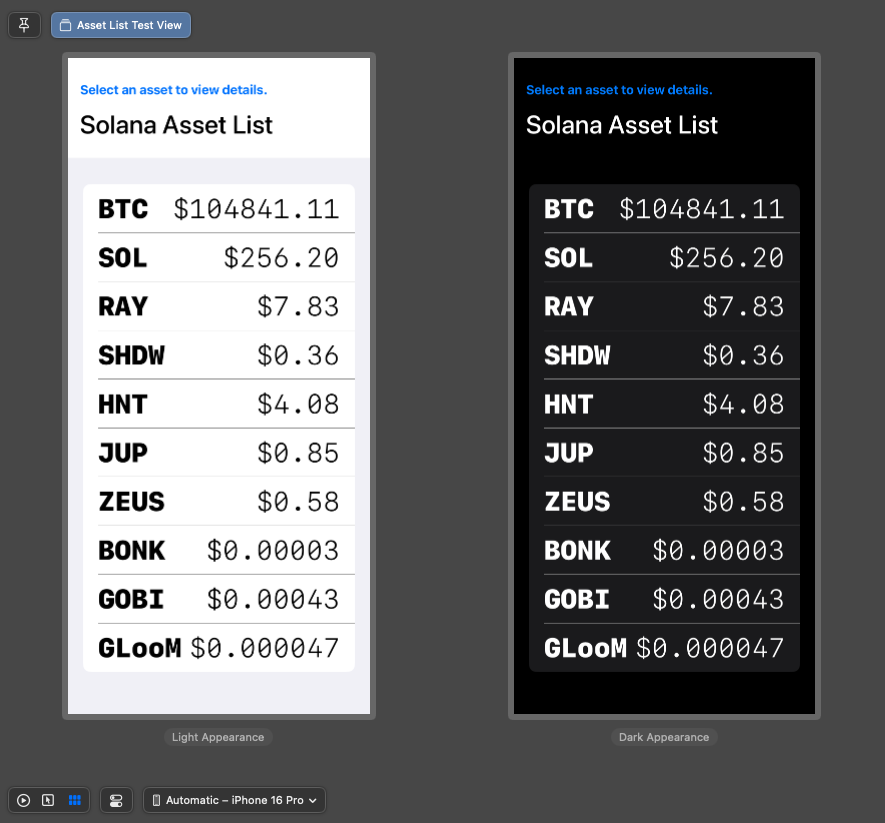
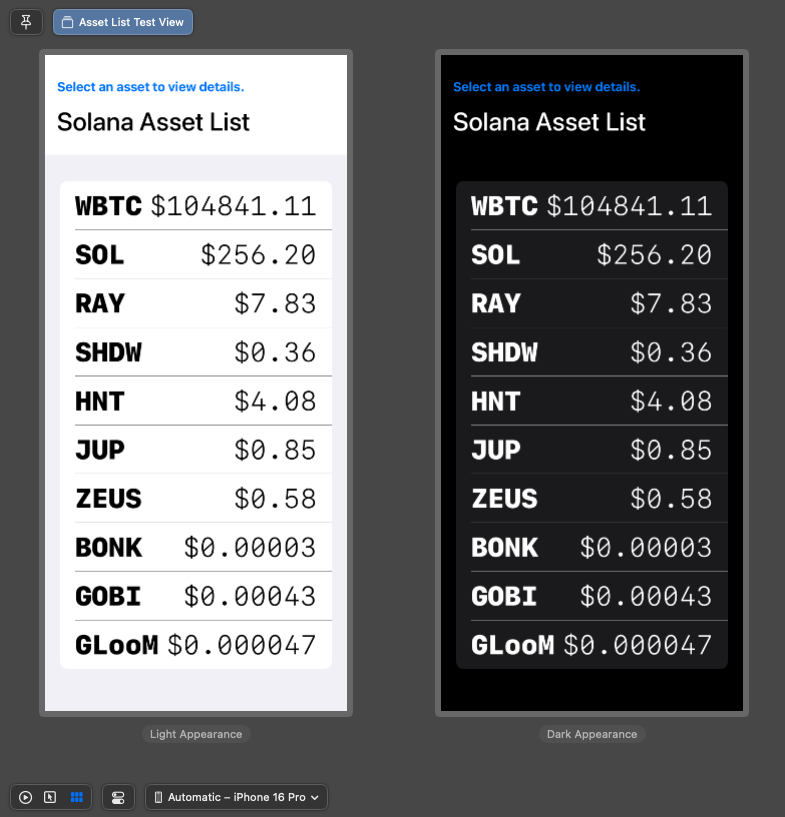
Refactor Portfolio Chart View Preview and Refactor (rename) the PresetableAssetViewModel to PresentableAssetListViewModel to add PresentableAssetViewModel to create Asser Price Chart View

Changed region(s): [[0.0, 0.0, 0.4586, 0.918], [0.5503, 0.0612, 0.9783, 0.918], [0.0, 0.9486, 0.3975, 1.0]]

diff --git a/SolanaSwiftSDK/SolanaPackage/SolanaPackageUI/Asset UI/Views/AssetPriceChartView.swift b/SolanaSwiftSDK/SolanaPackage/SolanaPackageUI/Asset UI/Views/AssetPriceChartView.swift
@@ -1,0 +1,113 @@
+//
+//  AssetPriceChartView.swift
+//  SolanaPackageUI
+//
+//  Created by Deniz Tutuncu on 1/25/25.
+//
+
+import SwiftUI
+import Charts
+
+public struct AssetPriceChartView: View {
+    public init(title: String,
+                titleTextColor: Color,
+                subtitle: String,
+                subtitleTextColor: Color,
+                errorMessage: String,
+                errorViewButtonTitle: String,
+                loadingTitle: String,
+                loadAgain: @escaping () -> Void,
+                viewModel: PresentableAssetViewModel) {
+        self.title = title
+        self.titleTextColor = titleTextColor
+        self.subtitle = subtitle
+        self.subtitleTextColor = subtitleTextColor
+        self.errorMessage = errorMessage
+        self.errorViewButtonTitle = errorViewButtonTitle
+        self.loadingTitle = loadingTitle
+        self.loadAgain = loadAgain
+        self.viewModel = viewModel
+    }
+    
+    private let title: String
+    private let titleTextColor: Color
+    private let subtitle: String
+    private let subtitleTextColor: Color
+    private let errorMessage: String
+    private let errorViewButtonTitle: String
+    private let loadingTitle: String
+    private let loadAgain: () -> Void
+    
+    @ObservedObject private var viewModel: PresentableAssetViewModel
+    
+    public var body: some View {
+        VStack {
+            HeaderView(title: title,
+                       titleTextColor: titleTextColor,
+                       subtitle: subtitle,
+                       subtitleTextColor: subtitleTextColor)
+            
+            if viewModel.isLoading {
+                LoadingView(title: loadingTitle)
+            } else if viewModel.model.prices.isEmpty {
+                ErrorView(message: errorMessage,
+                          buttonTitle: errorViewButtonTitle,
+                          onHide: loadAgain)
+            } else {
+                Chart(viewModel.model.prices.indices, id: \ .self) { index in
+                    LineMark(
+                        x: .value("Index", index),
+                        y: .value("Price", viewModel.model.prices[index])
+                    )
+                    .symbol(Circle())
+                    .interpolationMethod(.catmullRom)
+                }
+                .chartYScale(domain: (viewModel.model.prices.min()! - 10)...(viewModel.model.prices.max()! + 10))
+                .frame(height: 300)
+                .padding()
+            }
+        }
+    }
+}
+
+struct AssetPriceChartView_Previews: PreviewProvider {
+    static var previews: some View {
+        Group {
+            AssetPriceChartTestView()
+                .previewLayout(.sizeThatFits)
+                .previewDisplayName("Asset Price Chart Test View")
+        }
+    }
+    
+    struct AssetPriceChartTestView: View {
+        @State var selection: String = "none"
+        
+        var body: some View {
+            VStack {
+                AssetPriceChartView(title: "Solana",
+                                    titleTextColor: .primary,
+                                    subtitle: "Daily Price Chart",
+                                    subtitleTextColor: .blue,
+                                    errorMessage: "Cannot load asset price chart",
+                                    errorViewButtonTitle: "Retry",
+                                    loadingTitle: "Loading asset price chart...",
+                                    loadAgain: { print("Load again button tapped")},
+                                    viewModel: PresentableAssetViewModel(model: PresentableAsset(name: "SOL",
+                                                                                                 prices: [185.50,
+                                                                                                          175.25,
+                                                                                                          169.75,
+                                                                                                          172.68,
+                                                                                                          179.98,
+                                                                                                          195.25,
+                                                                                                          202.20,
+                                                                                                          212.12,
+                                                                                                          230.38,
+                                                                                                          240.50,
+                                                                                                          258.58],
+                                                                                                 imageURL: "An Image URL"),
+                                                                         isLoading: false
+                                    ))
+            }
+        }
+    }
+}

diff --git a/SolanaSwiftSDK/SolanaPackage/SolanaPackageUI/Portfolio/Views/PortfolioChartView.swift b/SolanaSwiftSDK/SolanaPackage/SolanaPackageUI/Portfolio/Views/PortfolioChartView.swift
@@ -70,29 +70,43 @@ public struct PortfolioChartView: View {
     }
 }
 
-#Preview {
-    let sampleViewModel = PortfolioViewModel(model: [
-        Portfolio(date: Date().addingTimeInterval(-11 * 24 * 60 * 60), value: 7500),
-        Portfolio(date: Date().addingTimeInterval(-10 * 24 * 60 * 60), value: 8500),
-        Portfolio(date: Date().addingTimeInterval(-9 * 24 * 60 * 60), value: 9000),
-        Portfolio(date: Date().addingTimeInterval(-8 * 24 * 60 * 60), value: 10000),
-        Portfolio(date: Date().addingTimeInterval(-7 * 24 * 60 * 60), value: 9000),
-        Portfolio(date: Date().addingTimeInterval(-6 * 24 * 60 * 60), value: 10000),
-        Portfolio(date: Date().addingTimeInterval(-5 * 24 * 60 * 60), value: 10500),
-        Portfolio(date: Date().addingTimeInterval(-4 * 24 * 60 * 60), value: 8250),
-        Portfolio(date: Date().addingTimeInterval(-3 * 24 * 60 * 60), value: 10750),
-        Portfolio(date: Date().addingTimeInterval(-2 * 24 * 60 * 60), value: 9500),
-        Portfolio(date: Date().addingTimeInterval(-1 * 24 * 60 * 60), value: 15500),
-        Portfolio(date: Date(), value: 14500)
-    ], isLoading: false)
-
-    PortfolioChartView(title: "Portfolio Performance",
-                       titleTextColor: .primary,
-                       subtitle: "Monitor Your Portfolio Progress Daily",
-                       subtitleTextColor: .blue,
-                       errorMessage: "Unable to load portfolio data at this time.",
-                       errorViewButtonTitle: "Retry",
-                       loadingTitle: "Loading Portfolio...",
-                       loadAgain: { print("Retry button tapped") },
-                       viewModel: sampleViewModel)
+struct PortfolioChartView_Previews: PreviewProvider {
+    static var previews: some View {
+        Group {
+            PortfolioChartTestView()
+                .previewLayout(.sizeThatFits)
+                .previewDisplayName("Portfolio Chart Test View")
+        }
+    }
+    
+    struct PortfolioChartTestView: View {
+        let sampleViewModel = PortfolioViewModel(model: [
+            Portfolio(date: Date().addingTimeInterval(-11 * 24 * 60 * 60), value: 7500),
+            Portfolio(date: Date().addingTimeInterval(-10 * 24 * 60 * 60), value: 8500),
+            Portfolio(date: Date().addingTimeInterval(-9 * 24 * 60 * 60), value: 9000),
+            Portfolio(date: Date().addingTimeInterval(-8 * 24 * 60 * 60), value: 10000),
+            Portfolio(date: Date().addingTimeInterval(-7 * 24 * 60 * 60), value: 9000),
+            Portfolio(date: Date().addingTimeInterval(-6 * 24 * 60 * 60), value: 10000),
+            Portfolio(date: Date().addingTimeInterval(-5 * 24 * 60 * 60), value: 10500),
+            Portfolio(date: Date().addingTimeInterval(-4 * 24 * 60 * 60), value: 8250),
+            Portfolio(date: Date().addingTimeInterval(-3 * 24 * 60 * 60), value: 10750),
+            Portfolio(date: Date().addingTimeInterval(-2 * 24 * 60 * 60), value: 9500),
+            Portfolio(date: Date().addingTimeInterval(-1 * 24 * 60 * 60), value: 15500),
+            Portfolio(date: Date(), value: 14500)
+        ], isLoading: false)
+        
+        var body: some View {
+            VStack {
+                PortfolioChartView(title: "Portfolio Performance",
+                                   titleTextColor: .primary,
+                                   subtitle: "Monitor Your Portfolio Progress Daily",
+                                   subtitleTextColor: .blue,
+                                   errorMessage: "Unable to load portfolio data at this time.",
+                                   errorViewButtonTitle: "Retry",
+                                   loadingTitle: "Loading Portfolio...",
+                                   loadAgain: { print("Retry button tapped") },
+                                   viewModel: sampleViewModel)
+            }
+        }
+    }
 }

diff --git a/SolanaSwiftSDK/SolanaPackage/SolanaPackageUI/Asset UI/Views/AssetListView.swift b/SolanaSwiftSDK/SolanaPackage/SolanaPackageUI/Asset UI/Views/AssetListView.swift
@@ -17,7 +17,7 @@ public struct AssetListView: View {
                 loadingTitle: String,
                 tryAgain: @escaping () -> Void,
                 selection: @escaping (String) -> Void,
-                viewModel: PresentableAssetViewModel) {
+                viewModel: PresentableAssetListViewModel) {
         self.headerTitle = headerTitle
         self.headerTitleTextColor = headerTitleTextColor
         self.headerSubtitle = headerSubtitle
@@ -40,7 +40,7 @@ public struct AssetListView: View {
     private let tryAgain: () -> Void
     private let selection: (String) -> Void
 
-    @ObservedObject private var viewModel: PresentableAssetViewModel
+    @ObservedObject private var viewModel: PresentableAssetListViewModel
 
     public var body: some View {
         VStack {
@@ -96,16 +96,16 @@ struct AssetListView_Previews: PreviewProvider {
                     tryAgain: { },
                     selection: { selection = $0 },
                     viewModel: .init(model: [
-                        PresentableAsset(name: "BTC", price: "104841.11", imageURL: "An Image URL"),
-                        PresentableAsset(name: "SOL", price: "256.20", imageURL: "An Image URL"),
-                        PresentableAsset(name: "RAY", price: "7.83", imageURL: "An Image URL"),
-                        PresentableAsset(name: "SHDW", price: "0.36", imageURL: "An Image URL"),
-                        PresentableAsset(name: "HNT", price: "4.08", imageURL: "An Image URL"),
-                        PresentableAsset(name: "JUP", price: "0.85", imageURL: "An Image URL"),
-                        PresentableAsset(name: "ZEUS", price: "0.58", imageURL: "An Image URL"),
-                        PresentableAsset(name: "BONK", price: "0.00003", imageURL: "An Image URL"),
-                        PresentableAsset(name: "GOBI", price: "0.00043", imageURL: "An Image URL"),
-                        PresentableAsset(name: "GLooM", price: "0.000047", imageURL: "An Image URL")
+                        PresentableAsset(name: "BTC", prices: [104841.11], imageURL: "An Image URL"),
+                        PresentableAsset(name: "SOL", prices: [256.20], imageURL: "An Image URL"),
+                        PresentableAsset(name: "RAY", prices: [7.83], imageURL: "An Image URL"),
+                        PresentableAsset(name: "SHDW", prices: [0.36], imageURL: "An Image URL"),
+                        PresentableAsset(name: "HNT", prices: [4.08], imageURL: "An Image URL"),
+                        PresentableAsset(name: "JUP", prices: [0.85], imageURL: "An Image URL"),
+                        PresentableAsset(name: "ZEUS", prices: [0.58], imageURL: "An Image URL"),
+                        PresentableAsset(name: "BONK", prices: [0.00003], imageURL: "An Image URL"),
+                        PresentableAsset(name: "GOBI", prices: [0.00043], imageURL: "An Image URL"),
+                        PresentableAsset(name: "GLooM", prices: [0.000047], imageURL: "An Image URL")
                     ],
                     isLoading: false))
 

diff --git a/SolanaSwiftSDK/SolanaPackage/SolanaPackageUI/Asset UI/Views/SingleAssetSelectionCellView.swift b/SolanaSwiftSDK/SolanaPackage/SolanaPackageUI/Asset UI/Views/SingleAssetSelectionCellView.swift
@@ -8,19 +8,18 @@
 import SwiftUI
 
 public struct SingleAssetSelectionCellView: View {
-    public init (asset: PresentableAsset,
-                 selection: @escaping (String) -> Void)
-    {
+    public init (asset: PresentableAsset, selection: @escaping (String) -> Void) {
         self.asset = asset
         self.selection = selection
     }
-    
+
     @State private var asset: PresentableAsset
     private let selection: (String) -> Void
 
     public var body: some View {
         Button {
-            selection(asset.name); asset.toggleSelection()
+            selection(asset.name)
+            asset.toggleSelection()
         } label: {
             HStack {
                 Text(asset.name)
@@ -28,21 +27,22 @@ public struct SingleAssetSelectionCellView: View {
                     .lineLimit(1)
                     .minimumScaleFactor(0.2)
                     .foregroundColor(Color.primary)
-                
+
                 Spacer()
-                
-                Text("$\(asset.price)")
-                    .font(.system(size: 36, weight: .light, design: .monospaced))
-                    .lineLimit(1)
-                    .minimumScaleFactor(0.2)
-                    .foregroundColor(Color.primary)
-                
+
+                if let latestPrice = asset.prices.last {
+                    Text("$\(latestPrice, specifier: "%.2f")")
+                        .font(.system(size: 28, weight: .light, design: .monospaced))
+                        .lineLimit(1)
+                        .minimumScaleFactor(0.2)
+                        .foregroundColor(Color.primary)
+                }
             }
         }
     }
 }
 
 #Preview {
-    SingleAssetSelectionCellView(asset: PresentableAsset(name: "SOL", price: "182.20", imageURL: "s"),
+    SingleAssetSelectionCellView(asset: PresentableAsset(name: "SOL", prices: [182.20, 187.50, 195.87, 210.32, 258.58], imageURL: "s"),
                                  selection: { assetName in print(assetName) })
 }

diff --git a/SolanaSwiftSDK/SolanaPackage/SolanaPackageUI/Asset UI/View Model/PresentableAssetViewModel.swift b/SolanaSwiftSDK/SolanaPackage/SolanaPackageUI/Asset UI/View Model/PresentableAssetViewModel.swift
@@ -2,22 +2,22 @@
 //  PresentableAssetViewModel.swift
 //  SolanaPackageUI
 //
-//  Created by Deniz Tutuncu on 1/13/25.
+//  Created by Deniz Tutuncu on 1/25/25.
 //
 
 import Foundation
 
 public class PresentableAssetViewModel: ObservableObject {
-    public init(model: [PresentableAsset] = [], isLoading: Bool = false) {
+    public init(model: PresentableAsset, isLoading: Bool = false) {
         self.model = model
         self.isLoading = isLoading
     }
     
-    @Published public var model: [PresentableAsset]
+    @Published public var model: PresentableAsset
     @Published public var isLoading: Bool
 
     public var isModelEmpty: Bool {
-        return model.isEmpty
+        return model.id.uuidString.isEmpty
     }
 
     public func setLoading() {

diff --git a/SolanaSwiftSDK/SolanaPackage/SolanaPackageUI/Asset UI/View Model/PresentableAssetListViewModel.swift b/SolanaSwiftSDK/SolanaPackage/SolanaPackageUI/Asset UI/View Model/PresentableAssetListViewModel.swift
@@ -1,0 +1,26 @@
+//
+//  PresentableAssetListViewModel.swift
+//  SolanaPackageUI
+//
+//  Created by Deniz Tutuncu on 1/13/25.
+//
+
+import Foundation
+
+public class PresentableAssetListViewModel: ObservableObject {
+    public init(model: [PresentableAsset] = [], isLoading: Bool = false) {
+        self.model = model
+        self.isLoading = isLoading
+    }
+    
+    @Published public var model: [PresentableAsset]
+    @Published public var isLoading: Bool
+
+    public var isModelEmpty: Bool {
+        return model.isEmpty
+    }
+
+    public func setLoading() {
+        isLoading = true
+    }
+}

diff --git a/SolanaSwiftSDK/SolanaPackage/SolanaPackageUI/Asset UI/Model/PresentableAsset.swift b/SolanaSwiftSDK/SolanaPackage/SolanaPackageUI/Asset UI/Model/PresentableAsset.swift
@@ -8,16 +8,16 @@
 import Foundation
 
 public struct PresentableAsset: Hashable {
-    public init(id: UUID = UUID(), name: String, price: String, imageURL: String) {
+    public init(id: UUID = UUID(), name: String, prices: [Double], imageURL: String) {
         self.id = id
         self.name = name
-        self.price = price
+        self.prices = prices
         self.imageURL = imageURL
     }
     
     public let id: UUID
     public let name: String
-    public let price: String
+    public let prices: [Double]
     public let imageURL: String
     
     public var isSelected = false
